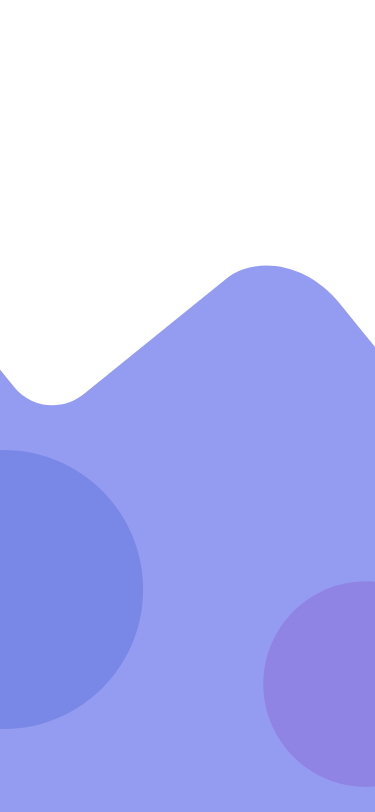
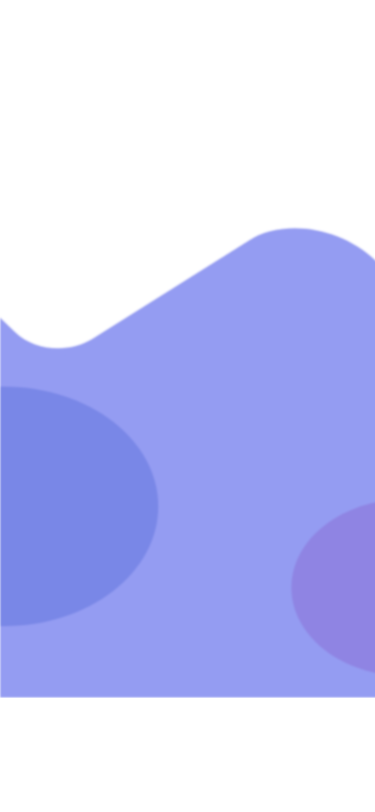
precisamos de mais manutenção

Changed region(s): [[0.0, 0.2771, 1.0, 1.0]]

diff --git a/src/dashboard/css/Style.js b/src/dashboard/css/Style.js
@@ -1,5 +1,5 @@
 import {
-    StyleSheet
+    StyleSheet,Dimensions
 } from 'react-native';
 
 export default StyleSheet.create({
@@ -9,8 +9,11 @@ export default StyleSheet.create({
         justifyContent: 'center',
         alignItems: 'center',
         backgroundColor: "#6A5ACD",
-    
+          width: Dimensions.get('window').width,
+              height: Dimensions.get('window').height
     },
+
+
 
 
     containerLogin: {
@@ -18,8 +21,19 @@ export default StyleSheet.create({
         justifyContent:'center',
         alignItems: "center",
         backgroundColor: "#6A5ACD",
-       
+             width: Dimensions.get('window').width,
+                 height: Dimensions.get('window').height
         
+      
+    },
+
+
+    containerEdit: {
+        flex: 1,
+        justifyContent: 'center',
+        alignItems: 'center',
+       width: Dimensions.get('window').width,
+           height: Dimensions.get('window').height,
       
     },
 
@@ -29,6 +43,7 @@ export default StyleSheet.create({
         justifyContent: 'center',
       paddingHorizontal: 50,
       marginTop: 170,
+     
     },
 
   
@@ -50,6 +65,7 @@ export default StyleSheet.create({
          marginTop: 15,
          borderRadius:40,
          paddingHorizontal:20,
+       
          
         },
 
@@ -78,7 +94,7 @@ export default StyleSheet.create({
     }, 
     
     ViewBottonsLogin: {
-    
+           
         justifyContent: 'center',
         alignItems: "center",
         
@@ -91,20 +107,16 @@ export default StyleSheet.create({
 
     
 
-    ViewFeed: {
-       
-        justifyContent: 'center',
-     alignSelf: 'stretch',
-    marginTop:10
+    ViewEdit: {
+        paddingHorizontal: 50,
+      alignSelf: 'stretch',
+          justifyContent: 'center',
+         
+     
+         
     },
 
-    containerFeed:{
-     
-           justifyContent: 'center',
-           alignItems: 'center',
-             paddingHorizontal: 50,
-          
-    },
+    
 
 
      textoesqueci1: {
@@ -121,14 +133,27 @@ export default StyleSheet.create({
     },
 
 
-   FeedTitulo:{
-   marginTop: -900,
+   EditTitulo:{
+   marginTop:-700,
+
 
    },
 
-   ViewFeedTitulo:{
+   ViewEditTitulo:{
     justifyContent:'center',
-    alignItems: 'center'   
+    marginTop:-500,
+    paddingTop:5, 
+   
+   },
+
+   buttonEditComecar:{
+       justifyContent: 'center',
+    alignItems:'center',
+    borderRadius:5,
+    backgroundColor: 'white',
+    width: 172,
+    height: 45,
+    marginTop:70
    }
 
 

diff --git a/src/dashboard/Edit.js b/src/dashboard/Edit.js
@@ -1,5 +1,5 @@
 import React from 'react';
-import {SafeAreaView,View,TextInput,Text,TouchableHighlight,ImageBackground,Image} from 'react-native';
+import {SafeAreaView,View,TextInput,Text,TouchableHighlight,ImageBackground,Image,Dimensions} from 'react-native';
 import Style from './css/Style';
 import Fundo from  '../dashboard/img/fundo.png';
 import Logo from '../dashboard/img/logo.png';
@@ -11,44 +11,45 @@ state = {
 }
 
 
+Comecar = ()=>{
+navigation.navigate('Feed')
+
+
+}
+
 
 VoltarLogin=()=>{
 navigation.navigate('Login')
 }
 
 
-    
+     
  
     
 
 
-return <SafeAreaView>
-<Image source = {Fundo} style={{width:500}}/>
-<View style={Style.ViewFeedTitulo}><Image source={Logo} style={Style.FeedTitulo}/></View>
+return <SafeAreaView style = {Style.containerEdit}>
+<Image source = {Fundo} style={{width:Dimensions.get('window').width, height:Dimensions.get('window').height,marginTop:-90 }}/>
+<View style={Style.ViewEditTitulo}><Image source={Logo} style={Style.EditTitulo}/></View>
 
-
-<View style={Style.containerFeed}>
-
-    <View style={Style.ViewFeed}>
+{/*<View style={Style.ViewEdit}>
 <TextInput placeholder='Nome'style={Style.InputTextInput1}placeholderTextColor = 'black'/>
 <TextInput placeholder='Usuário'style={Style.InputTextInput1}placeholderTextColor = 'black'/>
 <TextInput placeholder='Email'style={Style.InputTextInput1} placeholderTextColor = 'black' />
 <TextInput placeholder='Senha'style={Style.InputTextInput1}placeholderTextColor = 'black' />
-
-
 </View>
-<View style={Style.ViewBottonsLogin}>
+*/}
+{/*<View style={Style.ViewBottonsLogin}>
 <TouchableHighlight><Text style = {Style.textoesqueci1}>{this.state.esqueci}</Text></TouchableHighlight>
-    <TouchableHighlight style ={Style.buttonLoginEntrar} ><Text> Começar </Text></TouchableHighlight >
+    <TouchableHighlight onPress={this.Comecar}style ={Style.buttonEditComecar} ><Text> Começar </Text></TouchableHighlight >
     <TouchableHighlight onPress={this.VoltarLogin}><Text style ={Style.textoja}>{this.state.ja}</Text></TouchableHighlight>
 
 
 
+</View>*/}
 
-</View>
 
 
-</View>
 
 </SafeAreaView>
 

diff --git a/src/dashboard/Login.js b/src/dashboard/Login.js
@@ -1,5 +1,5 @@
 import React from 'react';
-import {SafeAreaView,Image,View,TextInput,Text,TouchableHighlight} from 'react-native';
+import {SafeAreaView,Image,View,TextInput,Text,TouchableHighlight,Dimensions} from 'react-native';
 import Style from './css/Style';
 
  
@@ -13,12 +13,19 @@ state = {
 export default function Login({navigation}) {
 
 
+
+
+
+Edit =()=>{
+ navigation.navigate('Edit');   
+}
+
 Entrar = () => {
- navigation.navigate('Edit')
+ navigation.navigate('Feed');
 }
 
 return <SafeAreaView style={Style.containerLogin}>
-<View>< Image/></View>
+
 <View style={Style.ViewLogin}>
 <TextInput placeholder='Email'
 style={Style.InputTextInput}
@@ -32,8 +39,8 @@ placeholderTextColor='black'
 </View>
 <View style={Style.ViewBottonsLogin}>
 <TouchableHighlight><Text style={Style.textoesqueci}>{this.state.esqueci}</Text></TouchableHighlight>
-<TouchableHighlight style={Style.buttonLoginEntrar}><Text>Entrar</Text></TouchableHighlight>
-<TouchableHighlight onPress ={this.Entrar}><Text  style={Style.textonão}>{this.state.não}</Text></TouchableHighlight>
+<TouchableHighlight  onPress={this.Entrar} style={Style.buttonLoginEntrar}><Text>Entrar</Text></TouchableHighlight>
+<TouchableHighlight onPress ={this.Edit}><Text  style={Style.textonão}>{this.state.não}</Text></TouchableHighlight>
 </View>
 
 
@@ -48,7 +55,6 @@ placeholderTextColor='black'
     
 
 }
-
 
 
 

diff --git a/src/navigation/routes.js b/src/navigation/routes.js
@@ -2,11 +2,13 @@ import {createAppContainer,createSwitchNavigator,createTopTabNavigator} from 're
 import Loading from '../dashboard/Loading';
 import Login from '../dashboard/Login';
 import Edit from '../dashboard/Edit';
+import Feed from '../dashboard/Feed';
 export default createAppContainer(
 
 createSwitchNavigator({
-//Login,
-Edit
+Login,
+Edit,
+Feed
 }),
 
 

diff --git a/src/dashboard/Feed.js b/src/dashboard/Feed.js
@@ -1,0 +1,27 @@
+import React from 'react';
+import {Image,SafeAreaView,View} from 'react-native';
+
+
+
+export default class Feed extends React.Component{
+  render(){
+   
+    
+return (
+<SafeAreaView>
+
+
+    
+</SafeAreaView>
+
+
+
+
+
+
+
+
+);
+
+  }  
+}
